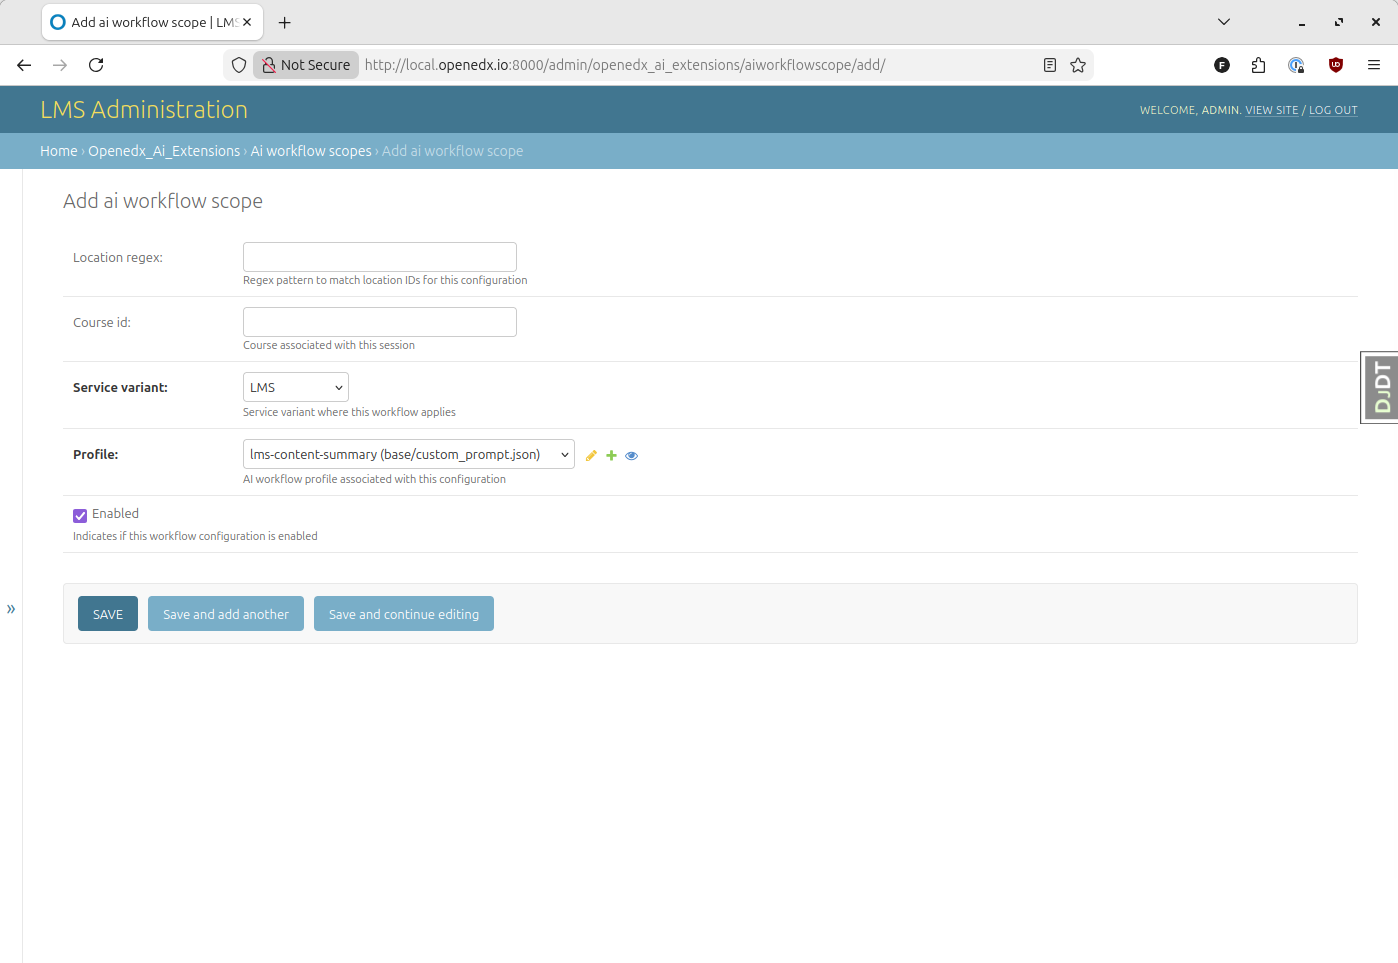
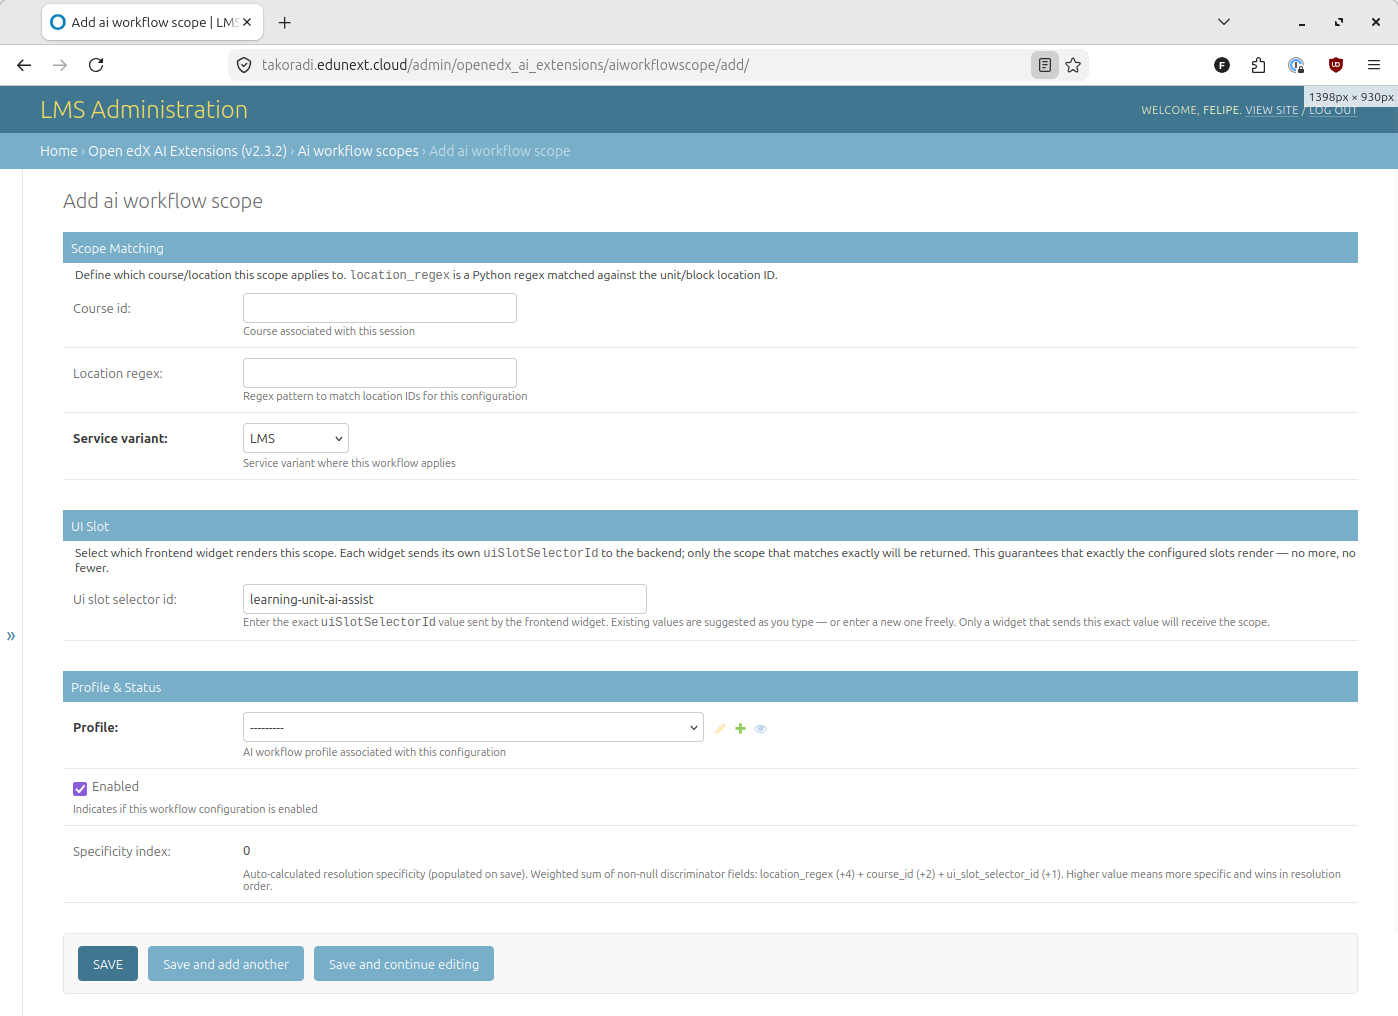
docs: updating docs and usage guide to match the latest work on ui ids

diff --git a/docs/quickstarts/usage_guide.rst b/docs/quickstarts/usage_guide.rst
@@ -82,6 +82,9 @@ Creating the Scope
    - **Course ID**: Leave empty (applies to all courses), or :ref:`target specific courses <target-specific-courses>`
    - **Location regex**: Leave empty (applies to all units), or :ref:`target specific units <target-specific-units>`
    - **Profile**: Select the profile you just created using the name you chose in the **Slug** field
+   - **UI slot selector ID**: Enter the ``id`` of the frontend widget that should render this workflow.
+     See :ref:`ui-slot-selector-id` for details.
+   - **Enabled**: Leave checked to activate the scope immediately
 
 3. Click :guilabel:`Save`
 
@@ -134,8 +137,11 @@ Creating the Scope
 
    - **Service variant**: Select ``CMS - Studio``
    - **Course ID**: Leave empty (applies to all courses in Studio), or :ref:`target specific courses <target-specific-courses>`
-   - **Location regex**: Leave empty - there is no targeting locations in the Studio context
+   - **Location regex**: Leave empty — location targeting is not used in the Studio context
    - **Profile**: Select the profile you just created
+   - **UI slot selector ID**: Enter the ``id`` of the frontend widget that should render this workflow.
+     See :ref:`ui-slot-selector-id` for details.
+   - **Enabled**: Leave checked to activate the scope immediately
 
 3. Click :guilabel:`Save`
 
@@ -149,6 +155,75 @@ Navigate to a course in Studio. You should see the AI assistant interface availa
 
 Advanced Configuration
 **********************
+
+.. _ui-slot-selector-id:
+
+Using the UI Slot Selector ID
+==============================
+
+The **UI Slot Selector ID** field controls which frontend widget renders a given scope.
+It does **not** refer to the Open edX UI slot (e.g. ``openedx.learning.unit.header.slot.v1``).
+It refers to the ``id`` property of the widget that is inserted into that slot via the
+plugin operations system:
+
+.. code-block:: javascript
+
+   op: PLUGIN_OPERATIONS.Insert,
+   widget: {
+     id: 'ai-assist-button',   // ← this is the UI Slot Selector ID
+     priority: 10,
+     type: DIRECT_PLUGIN,
+     RenderWidget: ConfigurableAIAssistance,
+   }
+
+Every widget sends its own ``id`` with each backend request. The backend only returns a
+scope whose **UI Slot Selector ID** exactly matches that value. This guarantees that each
+widget on the page receives its own independently configured workflow.
+
+Common widget IDs
+-----------------
+
+The most commonly used widget IDs are:
+
+.. code-block:: text
+
+   ai-assist-button                      ← LMS unit-level AI assistant
+   ai-assist-button-course-outline-sidebar  ← Studio course outline sidebar
+
+A less common one is ``ai-extensions-settings-card``. Additional IDs may be in use
+depending on your installation. The Django admin field auto-suggests all values it finds
+in existing scope records, so the available options grow as you configure more scopes.
+
+Wildcards (empty value)
+-----------------------
+
+If you leave **UI Slot Selector ID** empty, the scope will match *any* widget that does
+not find a more specific scope for its widget ID. This is a convenient shortcut for
+simple deployments, but it means any new widget you add later may unexpectedly receive
+the same workflow.
+
+For production deployments, always set an explicit **UI Slot Selector ID** so scope
+resolution is predictable.
+
+Scope resolution and specificity
+---------------------------------
+
+When multiple scopes could match a request, the backend selects the most *specific* one
+using a weighted score:
+
++--------------------+--------+
+| Field              | Weight |
++====================+========+
+| Location regex     | +4     |
++--------------------+--------+
+| Course ID          | +2     |
++--------------------+--------+
+| UI Slot Selector   | +1     |
++--------------------+--------+
+
+A scope with all three fields set outranks one that only sets two, and so on. The
+**Specificity index** column in the Django admin list view shows the computed score for
+each scope (read-only; updated automatically on save).
 
 .. _target-specific-courses:
 
